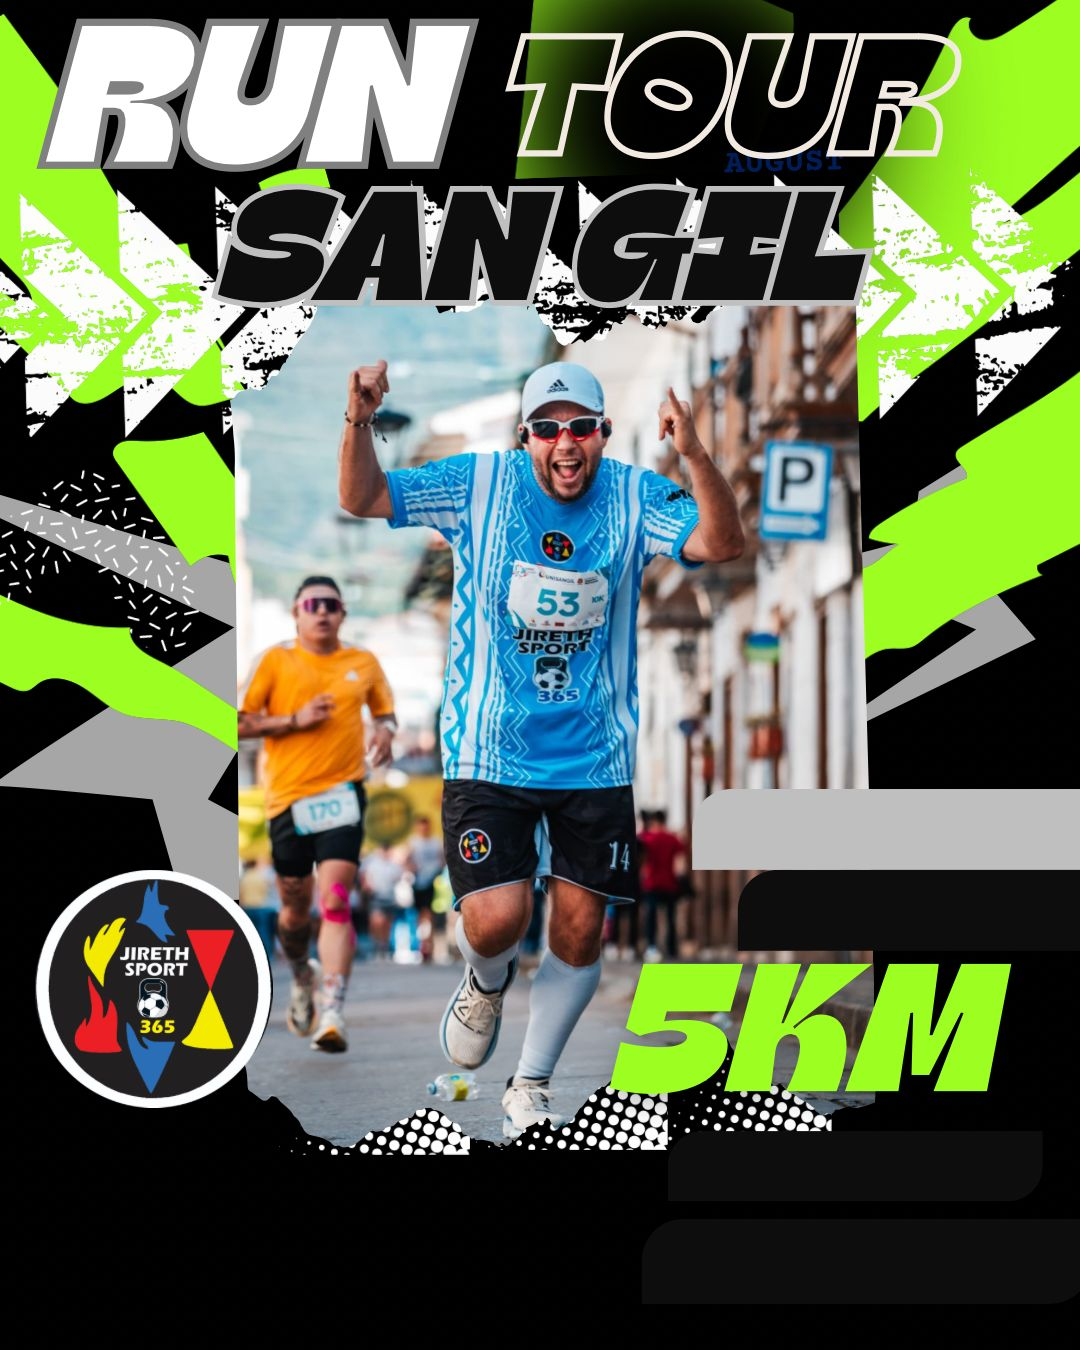
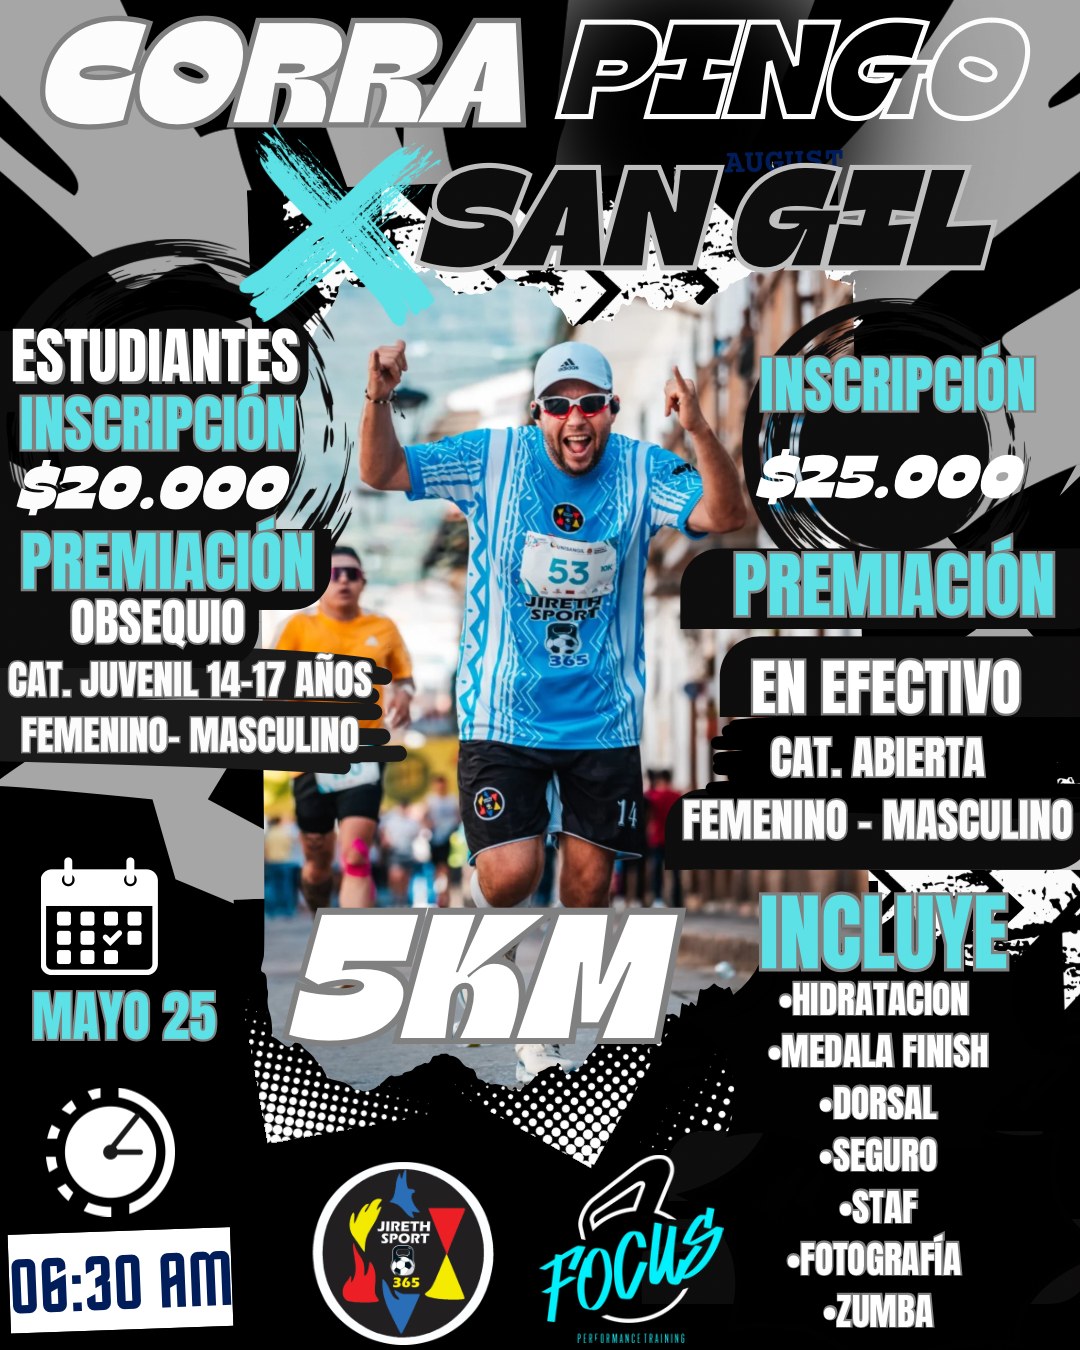
cambio color principal

diff --git a/src/views/Form.vue b/src/views/Form.vue
@@ -2,7 +2,7 @@
   <div class="bg-fixed q-pa-lg flex flex-center form-container">
     <q-card class="q-pa-md q-mx-auto full-width card-form" style="max-width: 800px;">
       <!-- Imagen de la carrera -->
-      <q-img src="/banner_form.jpg" class="q-mb-md" style="border-radius: 0px;" />
+      <q-img src="/banner_form.png" class="q-mb-md" style="border-radius: 0px;" />
 
       <!-- QForm para validación -->
       <q-form @submit="onSubmit" @reset="onReset" ref="formRef">
@@ -398,7 +398,7 @@
   <q-btn
     label="Inscribirme"
     :loading="loading"
-    color="primary"
+    color="secondary"
     type="submit"
     unelevated
     no-caps
@@ -609,7 +609,7 @@ function openLink(url) {
 }
 
 h4 {
-  background-image: url("/fondoo.png");
+  background-image: url("/banner_h4.png");
   background-repeat: no-repeat;
   background-size: cover;
   color: #fffdfd;
@@ -630,7 +630,7 @@ form label {
 }
 
 .footer-form{
-  background-image: url("/fondoo.png");
+  background-image: url("/banner_h4.png");
   background-repeat: no-repeat;
   background-size: cover;
   color: white;

diff --git a/index.html b/index.html
@@ -2,10 +2,10 @@
 <html lang="en">
   <head>
     <meta charset="UTF-8" />
-    <link rel="icon" type="image/svg+xml" href="/vite.svg" />
+    <link rel="icon" href="/logo.png" />
     <link href="https://fonts.googleapis.com/css2?family=Bebas+Neue&family=Bitter:ital,wght@0,100..900;1,100..900&family=Montserrat:ital,wght@0,100..900;1,100..900&family=Nunito+Sans:ital,opsz,wght@0,6..12,200..1000;1,6..12,200..1000&family=Overpass:ital,wght@0,100..900;1,100..900&display=swap" rel="stylesheet">
     <link rel="stylesheet" href="path/to/font-awesome/css/font-awesome.min.css"><meta name="viewport" content="width=device-width, initial-scale=1.0" />
-    <title>INSCRIPCIONES RUN TOUR</title>
+    <title>INSCRIPCIÓN CORRA PINGO</title>
   </head>
   <body>
     <div id="app"></div>
